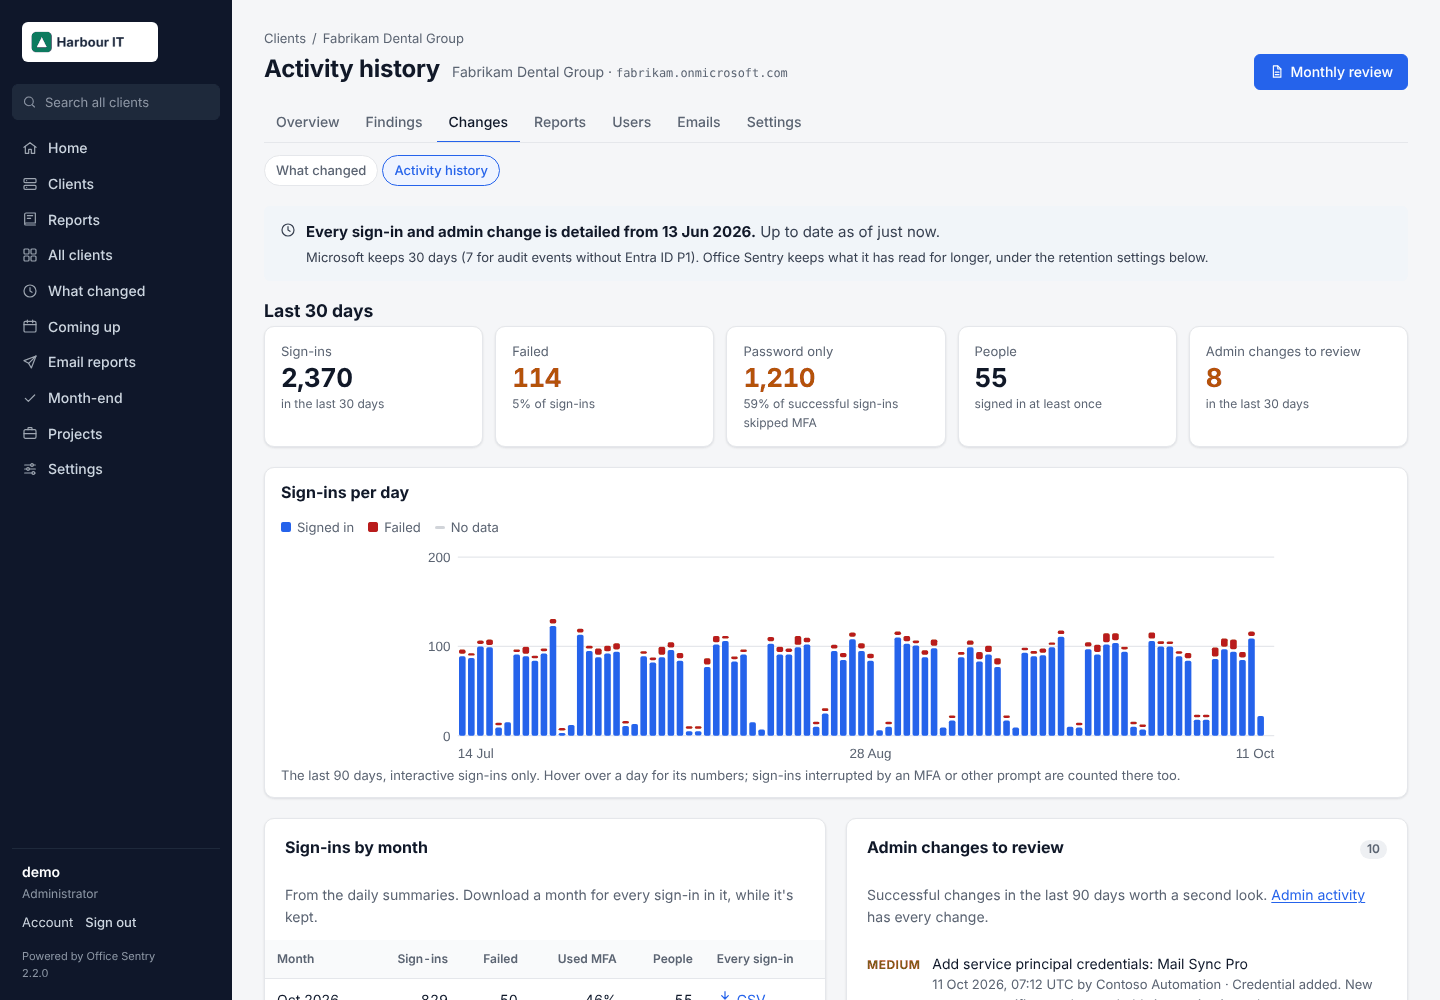
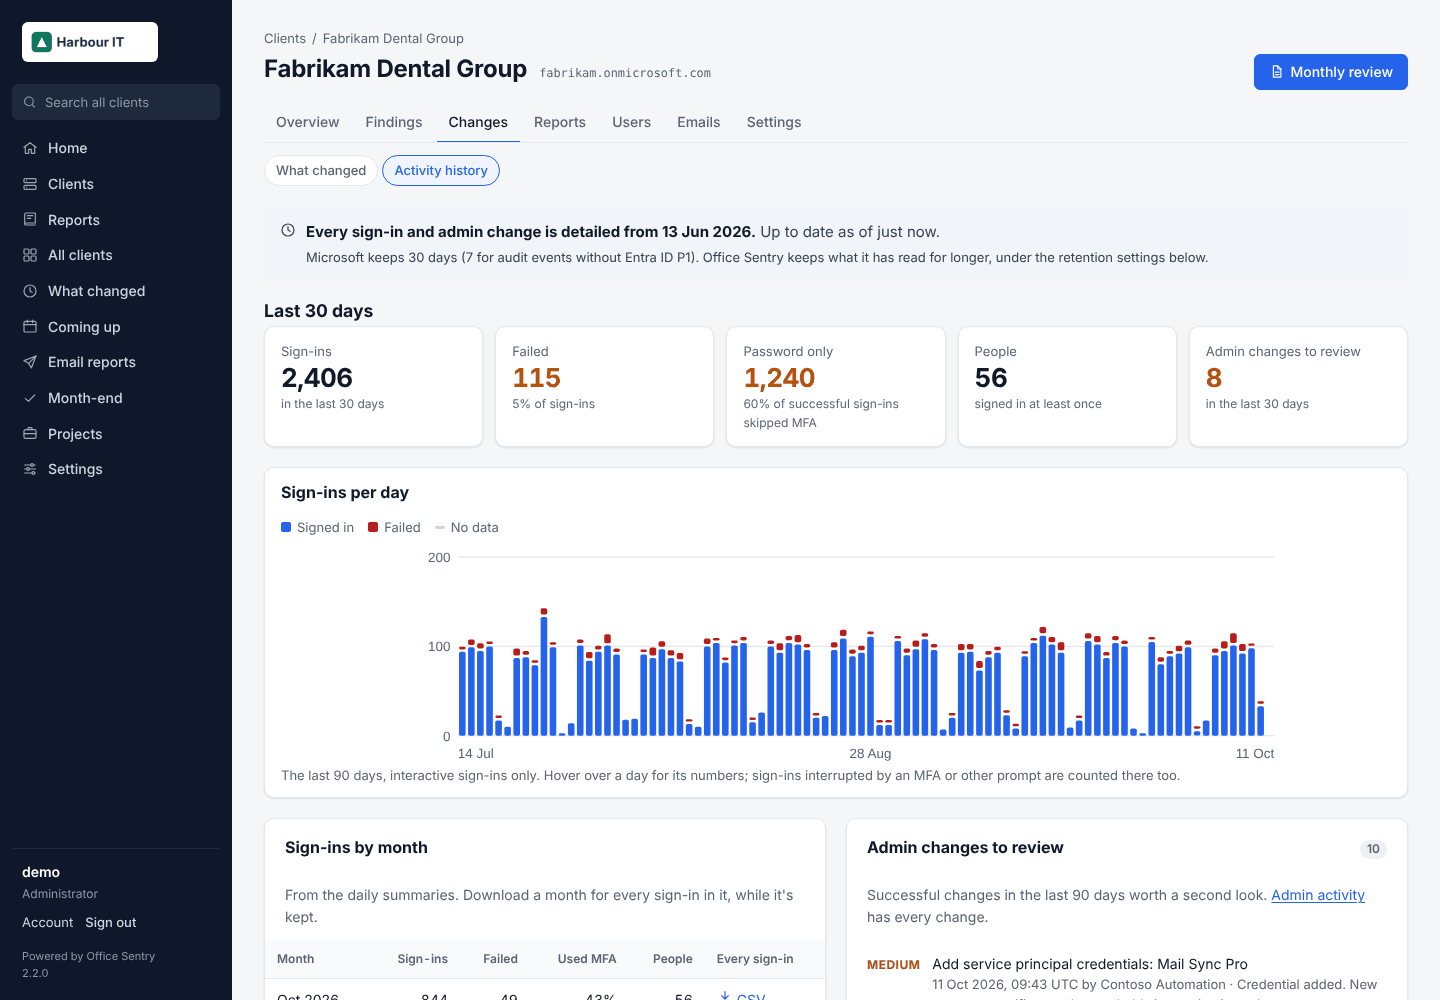
Every client page leads with the client's name
Recommended projects, Report history, Activity history, Offboard and the
evidence pages used their own title as the page heading, while every other
client page used the client's name. The heading is now always the client's
name; a page its tabs don't name gives its title under them, and the
evidence pages put theirs under the report picker with their downloads
beside it, as detail reports do.

diff --git a/v2/officesentry/web/templates/_macros.html b/v2/officesentry/web/templates/_macros.html
@@ -90,8 +90,8 @@
 <div class="crumbs"><a href="{{ url_for('tenants.dashboard') }}">{{ 'Clients' if staff else 'Your reports' }}</a><span>/</span><span>{{ tenant.name }}</span></div>
 <div class="page-head">
   <div class="head-title">
-    <h1>{{ title or tenant.name }}</h1>
-    <div class="sub">{% if title %}{{ tenant.name }} · {% endif %}<span class="mono">{{ tenant.tenant_ref }}</span>{% if staff and not cloud_of(tenant).is_default %} <span class="pill info" title="Microsoft national cloud">{{ cloud_of(tenant).label }}</span>{% endif %}{% if tenant.archived_at %} <span class="pill info">Archived</span>{% elif not tenant.enabled %} <span class="pill info" title="No collection or emailed reports until it's resumed">Paused</span>{% endif %}</div>
+    <h1>{{ tenant.name }}</h1>
+    <div class="sub"><span class="mono">{{ tenant.tenant_ref }}</span>{% if staff and not cloud_of(tenant).is_default %} <span class="pill info" title="Microsoft national cloud">{{ cloud_of(tenant).label }}</span>{% endif %}{% if tenant.archived_at %} <span class="pill info">Archived</span>{% elif not tenant.enabled %} <span class="pill info" title="No collection or emailed reports until it's resumed">Paused</span>{% endif %}</div>
   </div>
   <div class="actions">{{ caller() if caller }}
     {% if can('reports.security', tid) %}<a class="btn primary" href="{{ url_for('reports.tenant_report', tenant_id=tenant.id) }}">{{ icon('doc') }} Monthly review</a>{% endif %}
@@ -136,6 +136,9 @@
   {% for key, label, href in pages %}<a href="{{ href }}"{% if key == active %} class="active" aria-current="page"{% endif %}>{{ label }}</a>{% endfor %}
 </nav>
 {% endif %}
+{#- The client's name is every client page's heading; a page the tabs don't name (Recommended projects,
+    Report history) gives its own title under them, as a report does under its picker. -#}
+{% if title %}<h2 class="section-title page-title">{{ title }}</h2>{% endif %}
 {%- endmacro %}
 
 

diff --git a/v2/officesentry/web/templates/evidence_scheme.html b/v2/officesentry/web/templates/evidence_scheme.html
@@ -7,7 +7,7 @@
 {% set here = {'tenant_id': tenant.id, 'scheme': scheme.key} %}
 {% set here_since = dict(here, since=since) if since else here %}
 {% block content %}
-{{ tenant_header(tenant, 'evidence', title=scheme.title) }}
+{{ tenant_header(tenant, 'evidence') }}
 <div class="report-layout">
 {{ report_picker(tenant, 'evidence') }}
 <div class="report-main" id="report" tabindex="-1">
@@ -18,13 +18,18 @@
   {% for title, found in groups if scheme in found %}{% for s in found %}<a href="{{ url_for('evidence.scheme_page', tenant_id=tenant.id, scheme=s.key) }}"{% if s.key == scheme.key %} class="active" aria-current="page"{% endif %}>{{ s.short }}</a>{% endfor %}{% endfor %}
 </nav>
 
-<div class="toolbar">
-  <p class="muted small m0 intro-line">{{ scheme.intro }}</p>
+<div class="toolbar report-title">
+  <div>
+    <h2 class="section-title">{{ scheme.title }}</h2>
+    <p class="muted small m0">{{ scheme.intro }}</p>
+  </div>
+  <div class="toolbar-actions">
   {{ downloads([('PDF', url_for('evidence.scheme_pdf', **here), 'Evidence pack with the verdicts, fixes and answers'),
                 ('Word', url_for('evidence.scheme_docx', **here), 'To paste from or send on'),
                 ('Text', url_for('evidence.scheme_text', **here), 'Plain text to paste from'),
                 ('XLSX', url_for('evidence.scheme_xlsx', **here), ''),
                 ('CSV', url_for('evidence.scheme_csv', **here), '')]) }}
+  </div>
 </div>
 
 <div class="callout verdict-callout {{ HEAD_TONE[r.headline.tone] }}" role="status">

diff --git a/v2/officesentry/web/templates/evidence_index.html b/v2/officesentry/web/templates/evidence_index.html
@@ -3,11 +3,16 @@
 {% from "_evidence.html" import verdict_pill with context %}
 {% block title %}Evidence · {{ tenant.name }}{% endblock %}
 {% block content %}
-{{ tenant_header(tenant, 'evidence', title='Evidence and certifications') }}
+{{ tenant_header(tenant, 'evidence') }}
 <div class="report-layout">
 {{ report_picker(tenant, 'evidence') }}
 <div class="report-main" id="report" tabindex="-1">
-<p class="muted small intro-line">Pick what {{ tenant.name }} is going for. Each pack judges the scheme's controls from Microsoft 365 data, says what to fix, and gives the answers to paste into the form.</p>
+<div class="toolbar report-title">
+  <div>
+    <h2 class="section-title">Evidence and certifications</h2>
+    <p class="muted small m0">Pick what {{ tenant.name }} is going for. Each pack judges the scheme's controls from Microsoft 365 data, says what to fix, and gives the answers to paste into the form.</p>
+  </div>
+</div>
 
 {% for title, results in groups %}
 <section class="card flush scheme-group" aria-labelledby="group-{{ loop.index }}">

diff --git a/v2/officesentry/web/static/app.css b/v2/officesentry/web/static/app.css
@@ -383,6 +383,7 @@ details.accept-risk label { margin-bottom: var(--space-2-5); font-size: var(--fs
 @media (max-width: 640px) { table.stack-sm tr.group { padding: 0; border: 0; } table.stack-sm tr.group td { display: block; text-align: left; padding: var(--space-2) var(--space-4) !important; } }
 .m0 { margin: 0; }
 h2.section-title { font-size: 1.1rem; margin: 0 0 var(--space-0-5); }
+h2.page-title { margin-bottom: var(--space-1-5); } /* a client page's own title, under the client's tabs */
 .count-badge { display: inline-block; min-width: 22px; padding: 0 7px; border-radius: var(--radius-pill); background: var(--sunken); color: var(--muted); font-size: var(--fs-xs); font-weight: 600; text-align: center; }
 .jump { display: flex; flex-wrap: wrap; gap: var(--space-1-5) var(--space-4); margin: 0 0 var(--space-4); font-size: var(--fs-base); }
 .jump a { color: var(--text-2); display: inline-flex; gap: var(--space-1-5); align-items: center; }

diff --git a/v2/officesentry/web/templates/offboard.html b/v2/officesentry/web/templates/offboard.html
@@ -4,7 +4,7 @@
 {% block content %}
 {% set r = health.result or {} %}
 {% set app = r.app_name or 'the Office Sentry app (usually "Office Sentry (read-only)")' %}
-{{ tenant_header(tenant, 'manage', title='Offboard ' ~ tenant.name) }}
+{{ tenant_header(tenant, 'manage', title='Offboard') }}
 
 <p class="intro-line">Offboarding removes {{ tenant.name }} from Office Sentry for good. Work through the steps, then delete. If the client might come back, <strong>archive</strong> it instead: that hides it and keeps its data.</p>
 

diff --git a/v2/officesentry/web/templates/activity_history.html b/v2/officesentry/web/templates/activity_history.html
@@ -4,7 +4,7 @@
 {% from "_macros.html" import icon, tenant_header, ts with context %}
 {% block title %}Activity history · {{ tenant.name }}{% endblock %}
 {% block content %}
-{{ tenant_header(tenant, 'activity', title='Activity history') }}
+{{ tenant_header(tenant, 'activity') }}
 {% set s, a = page.signins, page.audits %}
 
 {% if not page.collected %}

diff --git a/v2/CLAUDE.md b/v2/CLAUDE.md
@@ -473,7 +473,9 @@ turning each step's `target` into a link.
 - Downloads on a page sit in one `downloads([(label, href, title)])` control
   from `_macros.html`, PDF first.
 - Every tenant page starts with `tenant_header(tenant, '<tab>')` from
-  `_macros.html` (import it `with context`). There are seven tabs (Overview,
+  `_macros.html` (import it `with context`). Its heading is always the client's name; a page its tabs
+  don't name passes `title=` for a heading under them, and a page in the Reports tab puts its title in
+  the `toolbar report-title` under the picker, as detail reports do. There are seven tabs (Overview,
   Findings, Changes, Reports, Users, Emails, Settings); a page that belongs
   under one gets its own key, mapped to that tab in `TAB_OF`, and a link in
   the tab's second row (`.tab-pages`), rather than a new tab. On laptops its tab bar stays pinned to the

diff --git a/CHANGELOG.md b/CHANGELOG.md
@@ -19,6 +19,9 @@ versions follow [semantic versioning](https://semver.org). How to update: [v2/DE
   Downloads keep every item. Columns get room by how long their values are, long email addresses wrap after
   the "@", and headings no longer break at a hyphen. A table that still doesn't fit scrolls inside its card,
   with its scrollbar in view and its first column pinned, instead of pushing the page sideways.
+- Every client page leads with the client's name, as the Overview does. Recommended projects, Report
+  history and Offboard put their own title under the tabs, and Evidence and certifications and each
+  evidence pack put theirs under the report picker with their downloads beside it, as detail reports do.
 
 ### Fixed
 
